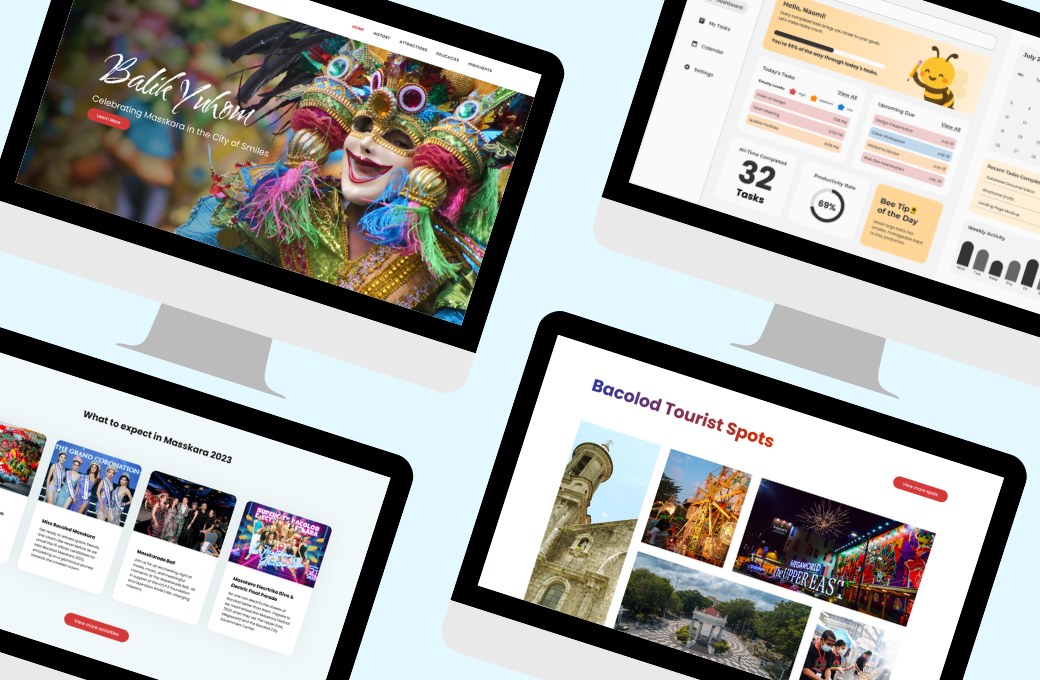
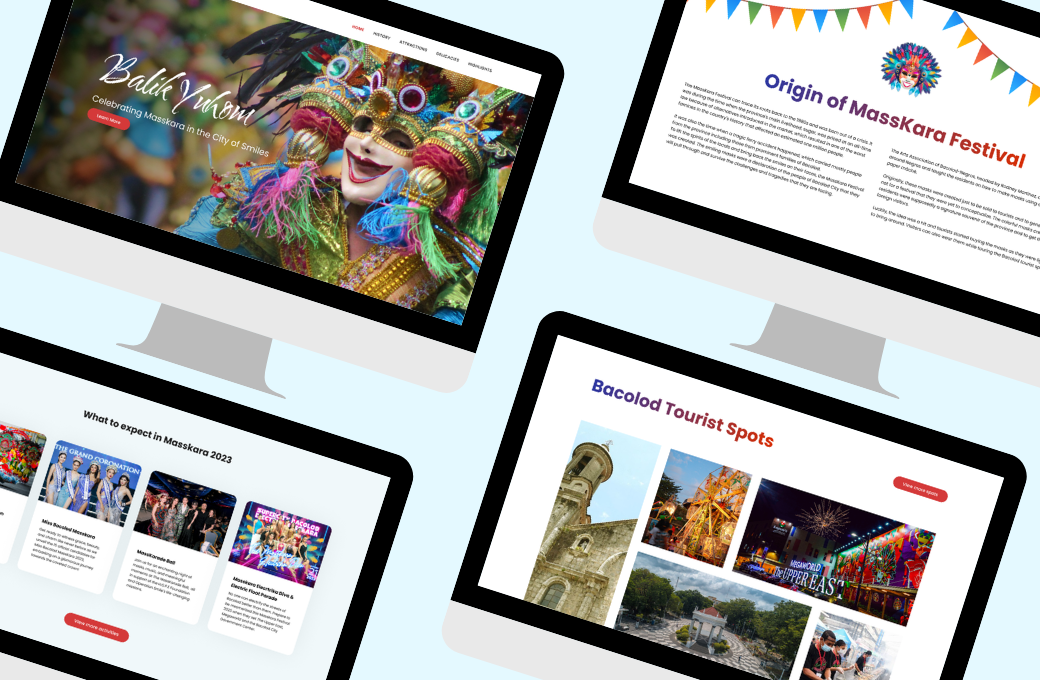
Mobile polish: swipeable skills marquee, footer one-line, smaller about cards

Changed region(s): [[0.6462, 0.0, 1.0, 0.4324]]

diff --git a/src/components/AboutSection.js b/src/components/AboutSection.js
@@ -172,6 +172,47 @@ export default function AboutSection() {
     return () => observer.disconnect();
   }, []);
 
+  /* Mobile marquee: drive scrollLeft directly so native swipe/drag keeps working.
+     Pauses while the user is interacting. */
+  useEffect(() => {
+    const slider = skillsSliderRef.current;
+    if (!slider) return;
+    if (window.matchMedia("(min-width: 769px)").matches) return;
+
+    let rafId;
+    let paused = false;
+    let last = performance.now();
+
+    const onDown = () => { paused = true; };
+    const onUp = () => { paused = false; last = performance.now(); };
+
+    slider.addEventListener("pointerdown", onDown);
+    slider.addEventListener("pointerup", onUp);
+    slider.addEventListener("pointercancel", onUp);
+    slider.addEventListener("pointerleave", onUp);
+
+    const step = (now) => {
+      const dt = now - last;
+      last = now;
+      if (!paused) {
+        const half = slider.scrollWidth / 2;
+        let next = slider.scrollLeft + (dt * 0.03); // ~30px per second
+        if (next >= half) next -= half;
+        slider.scrollLeft = next;
+      }
+      rafId = requestAnimationFrame(step);
+    };
+    rafId = requestAnimationFrame(step);
+
+    return () => {
+      cancelAnimationFrame(rafId);
+      slider.removeEventListener("pointerdown", onDown);
+      slider.removeEventListener("pointerup", onUp);
+      slider.removeEventListener("pointercancel", onUp);
+      slider.removeEventListener("pointerleave", onUp);
+    };
+  }, []);
+
 
   useEffect(() => {
     const folderSection = folderSectionRef.current;
@@ -275,9 +316,9 @@ export default function AboutSection() {
                   ref={skillsSliderRef}
                   onScroll={updateAtEnd}
                 >
-                  {SKILLS.map((skill) => (
+                  {[...SKILLS, ...SKILLS].map((skill, i) => (
                     <img
-                      key={skill.src}
+                      key={`${skill.src}-${i}`}
                       src={skill.src}
                       alt={skill.alt}
                       className="skill-logo"

diff --git a/src/app/globals.css b/src/app/globals.css
@@ -969,6 +969,8 @@ img {
   .technical-skills-header {
     justify-content: center;
     text-align: center;
+    margin-top: 1rem;
+    margin-bottom: 0.4rem;
   }
 
   .about-description {
@@ -1260,7 +1262,7 @@ TECHNICAL SKILLS SLIDER
 
 .skills-slider {
   position: relative;
-  margin: 0.25rem 0 0;
+  margin: 0.1rem 0 0;
 
   display: flex;
   align-items: center;
@@ -1385,12 +1387,38 @@ TECHNICAL SKILLS SLIDER
     --skill-visible-count: 5;
   }
 
-  .skills-slider-viewport {
-    padding: 0 0.6rem;
+  /* Full-width viewport so the marquee loops across the whole screen */
+  .skills-slider {
+    gap: 0;
+    margin: 0 0 2.5rem;
   }
 
+  .skills-slider-viewport {
+    width: 100%;
+    padding: 0 0.5rem;
+  }
+
+  /* Real-scroll marquee (JS-driven scrollLeft) so swipe/drag works natively */
   .skills-slider-track {
-    gap: 1rem;
+    padding: 0;
+    margin: 0;
+    cursor: grab;
+    overflow-x: auto;
+    -webkit-overflow-scrolling: touch;
+    touch-action: pan-x;
+  }
+
+  .skills-slider-track:active {
+    cursor: grabbing;
+  }
+}
+
+@keyframes skillsMarquee {
+  from {
+    transform: translateX(0);
+  }
+  to {
+    transform: translateX(-50%);
   }
 }
 
@@ -2834,6 +2862,10 @@ TECHNICAL SKILLS SLIDER
   text-align: center;
 }
 
+.footer-loc {
+  display: inline;
+}
+
 /* ---------------- Footer Mobile Responsiveness ---------------- */
 @media (max-width: 1024px) {
   /* Gradually reduce spacing as screen gets smaller */
@@ -2954,6 +2986,10 @@ TECHNICAL SKILLS SLIDER
   
   .footer-copy {
     font-size: 0.7rem;
+  }
+
+  .footer-loc {
+    display: block;
   }
 }
 

diff --git a/src/components/SiteFooter.js b/src/components/SiteFooter.js
@@ -44,9 +44,8 @@ export default function SiteFooter() {
 
         <div className="footer-bottom">
           <p className="footer-copy">
-            © {new Date().getFullYear()} Naomi Liu. All rights reserved.
-            <br />
-            Bacolod City, Negros Occidental, PH
+            © {new Date().getFullYear()} Naomi Liu. All rights reserved.{" "}
+            <span className="footer-loc">Bacolod City, Negros Occidental, PH</span>
           </p>
         </div>
       </div>
